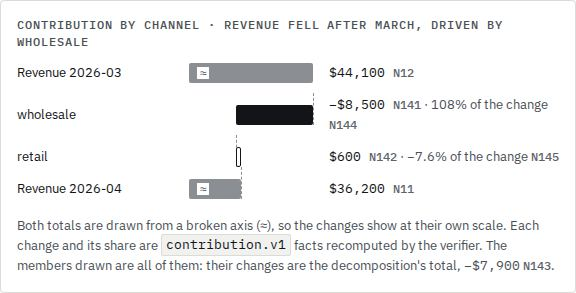
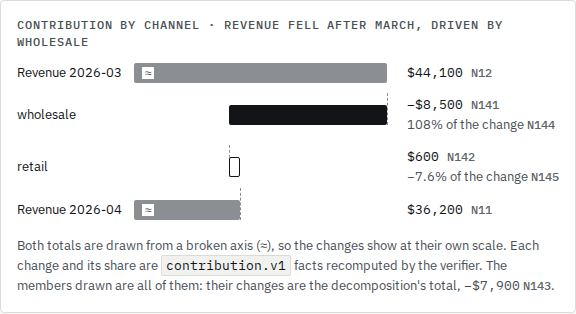
fix(site): the bridge's track takes the free width (shares under their figures), the bridge test checks bar ends, the caption and the phone layout; label rule and capture notes

diff --git a/scripts/site/browser/site.spec.ts b/scripts/site/browser/site.spec.ts
@@ -990,6 +990,10 @@ test("the contribution bridge: one row per total and member, bars on one shared 
     await expect(bridge.locator(".aa-island-label")).toContainText("Contribution by channel");
     await expect(bridge.locator(".aa-bridge-row")).toHaveCount(4);
     await expect(bridge).not.toContainText("Everyone else");
+    // The page's own data (coffee.json) proves every member is drawn: the caption says so with the total's id.
+    await expect(bridge.locator("p.aa-small")).toContainText("The members drawn are all of them");
+    await expect(bridge.locator("p.aa-small")).toContainText("N143");
+    await expect(bridge).not.toContainText("not drawn");
     const geo = await bridge.evaluate((el) => {
       const tracks = [...el.querySelectorAll(".aa-bridge-track")].map((t) => t.getBoundingClientRect());
       const rows = [...el.querySelectorAll(".aa-bridge-row")];
@@ -1000,11 +1004,37 @@ test("the contribution bridge: one row per total and member, bars on one shared 
         if (!link || !above) return 999;
         return Math.min(Math.abs(link.left - above.left), Math.abs(link.left - above.right));
       });
-      return { lefts: tracks.map((t) => Math.round(t.left)), widths: tracks.map((t) => Math.round(t.width)), joins };
+      // The bridge itself: March ends where wholesale starts (its right edge, a fall), wholesale ends where retail starts
+      // (its left edge), retail ends where April does.
+      const bars = rows.map((r) => r.querySelector(".aa-bridge-bar")?.getBoundingClientRect());
+      const ends = [
+        Math.abs((bars[0]?.right ?? 0) - (bars[1]?.right ?? 9)),
+        Math.abs((bars[1]?.left ?? 0) - (bars[2]?.left ?? 9)),
+        Math.abs((bars[2]?.right ?? 0) - (bars[3]?.right ?? 9)),
+      ];
+      return {
+        lefts: tracks.map((t) => Math.round(t.left)),
+        widths: tracks.map((t) => Math.round(t.width)),
+        joins,
+        ends,
+        track: tracks[0]?.width ?? 0,
+      };
     });
     expect(new Set(geo.lefts).size, path).toBe(1);
     expect(new Set(geo.widths).size, path).toBe(1);
     for (const j of geo.joins) expect(j, path).toBeLessThan(2);
+    for (const e of geo.ends) expect(e, path).toBeLessThan(2);
+    // Legible: the track has most of the island, not its minimum.
+    expect(geo.track, path).toBeGreaterThan(200);
+    // On a phone the bars stack under their labels at full width, and the connectors are hidden.
+    await page.setViewportSize({ width: 390, height: 844 });
+    const phone = await bridge.evaluate((el) => ({
+      links: [...el.querySelectorAll(".aa-bridge-link")].filter((l) => l.getClientRects().length > 0).length,
+      tracks: [...el.querySelectorAll(".aa-bridge-track")].map((t) => Math.round(t.getBoundingClientRect().width)),
+      rows: Math.round((el.querySelector(".aa-bridge-rows") as HTMLElement).getBoundingClientRect().width),
+    }));
+    expect(phone.links, path).toBe(0);
+    for (const w of phone.tracks) expect(w, path).toBe(phone.rows);
   }
 });
 

diff --git a/apps/docs/src/components/Decomposition.tsx b/apps/docs/src/components/Decomposition.tsx
@@ -83,12 +83,11 @@ export default function Decomposition() {
               {fig(s.delta)}
               {s.share ? (
                 <span className="aa-bridge-share">
-                  {" "}
-                  · {formatWithCurrency(s.share)} of the change <span className="aa-bridge-id">{s.share.id}</span>
+                  {formatWithCurrency(s.share)} of the change <span className="aa-bridge-id">{s.share.id}</span>
                 </span>
               ) : null}
               {i === steps.length - 1 && others.length ? (
-                <span className="aa-bridge-share"> · also in the total, not drawn: {others.join(", ")}</span>
+                <span className="aa-bridge-share">also in the total, not drawn: {others.join(", ")}</span>
               ) : null}
             </span>
           </li>

diff --git a/apps/docs/scripts/site-screenshots.ts b/apps/docs/scripts/site-screenshots.ts
@@ -93,7 +93,7 @@ try {
         // Also capture-only: the fixed header and the mobile TOC bar would otherwise sit over element and clip shots.
         await page.addStyleTag({
           content:
-            "*, *::before, *::after { transition: none !important; } header.header, mobile-starlight-toc { visibility: hidden !important; }",
+            "*, *::before, *::after { transition: none !important; } header.header, mobile-starlight-toc, starlight-menu-button { visibility: hidden !important; }",
         });
         await page.screenshot({ ...shot, path: join(out, `${slug}-00-top-${w}.jpg`) });
         // Each h2 section in full, from its h2 to the next one (or the end of the article).

diff --git a/apps/docs/src/components/islands.css b/apps/docs/src/components/islands.css
@@ -86,7 +86,9 @@
    one row lines up with the next row's and the connectors join them. */
 .aa-bridge-rows {
   display: grid;
-  grid-template-columns: minmax(7rem, 10rem) minmax(8rem, 1fr) minmax(0, max-content);
+  /* Name and figure at their own width, the track takes the rest (the share sits under its figure, so the figure
+     column stays narrow and the bars stay legible). */
+  grid-template-columns: max-content minmax(10rem, 1fr) max-content;
   gap: var(--aa-space-3);
   margin: 0 0 var(--aa-space-3);
   padding: 0;
@@ -150,6 +152,7 @@
   color: var(--aa-ink-3);
 }
 .aa-bridge-share {
+  display: block;
   font-family: var(--aa-font-sans);
   color: var(--aa-ink-2);
 }

diff --git a/docs/progress/STATE.md b/docs/progress/STATE.md
@@ -43,7 +43,7 @@ Since 2026-10-16 (maintainer's instruction, from PR #15 on): post the spec-revie
 | M13l Site v3 PR 2: results transposed | DONE | no | [#39](https://github.com/gfirik/agentic-analytics/pull/39) | `bun run --filter @agentic-analytics/docs build && bun run site:check:browser` | §3's table turned: metrics as rows (seven, now including cause grade and recommendation relevance, the bars the smoke run misses), runs as columns. It fits 1440 and 1920 with no sideways scroll (it overflowed even at 1920). A run without rates (real public data; a partial or in-progress run) is one cell over all metric rows; sources in a `<details>`. Lighthouse (simulated mobile, 2 runs each): `/` 97/100/100/100 CLS 0, `/learn/` 97/100/100/100 CLS 0.0235 (the docs font swap) |
 | M13l Site v3 PR 3: timed walkthrough, quiet chips | DONE | no | [#40](https://github.com/gfirik/agentic-analytics/pull/40) | `bun run --filter @agentic-analytics/docs build && bun run site:check:browser`; `tsx apps/docs/scripts/site-screenshots.ts --only hero-step` | Maintainer's D2: no scroll-pinning at any size; the walkthrough is timed everywhere (starts in view, Pause/prev/next, holds while the pointer is on a figure or a note, or focus is inside). The sticky section and its 2,250px track are gone (the exhibit section is as tall as its content). Step 1's note is open from the start (the empty "MARGIN · HOVER OR FOCUS" box and the 543px empty block on phones are gone); notes keep their own height (no stretched rows on phones); under 900px the SQL is folded behind "show". Chips: label size, ink-3, a light hairline, a 24px hit box. Also fixes a 5px sideways scroll on the landing page from 1000 to 1180px (the frame's "+" ticks), already on main. Lighthouse mobile (2 runs each): `/` 97/100/100/100 CLS 0, `/learn/` 97–100/100/100/100 CLS 0.0235 (the docs font swap); desktop: `/` and `/learn/` 100/100/100/100 CLS 0 |
 | M13l Site v3 PR 4: section heads, one code size, quiet scroll boxes | DONE | no | [#41](https://github.com/gfirik/agentic-analytics/pull/41) | `bun run --filter @agentic-analytics/docs build && bun run site:check:browser` | Every landing section opens with label, h2 (one line from 1100px) and a one-sentence lead; §3's caveats moved under its table. One code size, `--aa-text-code` (0.8125rem), for every block and inline code on the landing page and in the docs (Expressive Code was 0.875rem, Quickstart 0.75rem, the exhibit's notes 0.6875rem); Quickstart commands break at a flag or a `\`, never mid-word; the clone URL wraps after `github.com/` with its second line under its first. The status strip and the install line hide their scrollbar and fade at the edge with more to read. Lighthouse mobile: `/` 97/100/100/100 CLS 0, `/learn/` 97/100/100/100 CLS 0.0235; desktop: both 100/100/100/100 CLS 0 |
-| M13l Site v3 PR 5: Learn visuals, type floors, brief folded in | IN_REVIEW | no | [#42](https://github.com/gfirik/agentic-analytics/pull/42) | `bun run --filter @agentic-analytics/docs build && bun run site:check:browser` | The contribution waterfall is a true bridge (connectors, a broken axis, titled by its dimension, no remainder the page subtracted). Learn stage pages list h2s only in the TOC, and the TOC's cap is the screen below the header (no inner scrollbar at 1000px tall). Reading text in every figure at least `--aa-text-note`, nothing under `--aa-text-label` (StageFlow notes, CitationDemo, VerifierDiff reasons, the exhibit's foot and caption, grades, sidenote numbers), checked on every sitemap page. §2's examples share rows and show the report's first sentence before and after rendering. The brief is folded into DESIGN.md §11 and deleted. Lighthouse mobile: `/` 97/100/100/100 CLS 0, `/learn/` 97–98/100/100/100 CLS 0.0235; desktop: both 100/100/100/100 CLS 0 |
+| M13l Site v3 PR 5: Learn visuals, type floors, brief folded in | DONE | no | [#42](https://github.com/gfirik/agentic-analytics/pull/42) | `bun run --filter @agentic-analytics/docs build && bun run site:check:browser` | The contribution waterfall is a true bridge (connectors, a broken axis, titled by its dimension, no remainder the page subtracted). Learn stage pages list h2s only in the TOC, and the TOC's cap is the screen below the header (no inner scrollbar at 1000px tall). Reading text in every figure at least `--aa-text-note`, nothing under `--aa-text-label` (StageFlow notes, CitationDemo, VerifierDiff reasons, the exhibit's foot and caption, grades, sidenote numbers), checked on every sitemap page. §2's examples share rows and show the report's first sentence before and after rendering. The brief is folded into DESIGN.md §11 and deleted. Lighthouse mobile: `/` 97/100/100/100 CLS 0, `/learn/` 97–98/100/100/100 CLS 0.0235; desktop: both 100/100/100/100 CLS 0 |
 
 Order: M0 → M1 → M2 → M3 → M4 → M5 → M6 → M7 → M8 → M9 → M10 → M11 → M12. In autopilot it runs sequentially. Parallel worktrees are an interactive option only.
 
@@ -316,7 +316,7 @@ These are checks that need something this machine doesn't have yet, such as a re
 - [M13i] The sticky TOC shares the margin column with sidenotes and full-width figures: it has the page background and a height cap, notes scroll beneath it, and while a full-width figure passes under it the TOC steps aside (hidden) so the figure is never covered, and likewise for a sidenote beneath it (review round 1); without JS the TOC stays on top — apps/docs/src/components/starlight/TwoColumnContent.astro
 - [M13i] The landing page's fact ledger is collapsed until one of its rows is the link target (`:has(:target)`), so the chips still work without JS while the hero stays one screen; the margin note links to it
 - [M13l] Site v3 PR 5, also: §2's "model writes" sentence is rebuilt from the exhibit's line parts (`placeholders()` in exhibit.ts) rather than a raw claim text added to landing-data.ts as the plan said; a unit test checks it is the start of the report claim's own text. Only the Learn stage pages list h2s only in the TOC (the plan said Learn pages): they are the long ones with h3s; the overview, tutorials and glossary keep their h3s. The bridge names members beyond its drivers by fact id instead of counting them, and says it shows every member only when the total fact proves it
-- [M13l] Site v3 PR 5: the type-floor test treats short mono text (32 characters or fewer: fact ids, "bar ≥ 80%", a grade) as a label, so it may sit at `--aa-text-label` (a figure's numbers, `.aa-fig`, never count as labels; DESIGN.md §4 says so); mono prose (JSON in a StageFlow note, a VerifierDiff reason) is reading text and moves to the note or code size. The bridge reads the members from its total fact's inputs and names any beyond the drivers by fact id, rather than drawing an "everyone else" bar from a subtraction (with the coffee-roaster run every member is a driver; a unit test checks the total's inputs are exactly the drivers) — apps/docs/src/components/Decomposition.tsx, scripts/site/browser/site.spec.ts
+- [M13l] Site v3 PR 5: the type-floor test treats short mono text (32 characters or fewer: fact ids, "bar ≥ 80%", a grade) as a label, so it may sit at `--aa-text-label` (a figure's numbers, `.aa-fig`, never count as labels; DESIGN.md §4 says so); mono prose (JSON in a StageFlow note, a VerifierDiff reason) is reading text and moves to the note or code size. The bridge reads the members from its total fact's inputs and names any beyond the drivers by fact id, rather than drawing an "everyone else" bar from a subtraction (with the coffee-roaster data every member is a driver: a unit test checks it on the recorded run, and the browser test checks the island's own caption says so with the total's id) — apps/docs/src/components/Decomposition.tsx, scripts/site/browser/site.spec.ts
 - [M13l] Known gap (not site v3's findings): on /use-it/cli/ at 390 the command reference table splits flags at their hyphen (`[--` / `small-model]`); it was like this on main. The Quickstart and door commands no longer split — apps/docs/src/content/docs/use-it/cli.md
 - [M13l] Site v3 PR 4: the scroll boxes hide their scrollbar in CSS from the start (a scrollbar that a script removed would change the box's height and move the page), and only the fade needs the script, so without JS there is no fade (the plan said the edge would always fade without JS; a page can't know it overflows without measuring). Section-head spacing is one token (`--aa-space-4`) between label, h2 and lead, not the two the plan named, and the head cell keeps its `--aa-space-7` bottom padding (the plan said `--aa-space-8`; 8 left the lead floating far from its section's content). Code inside a heading keeps the heading's scale (0.875em): at the one code size, `contribution.v1` in a 28px h2 shrank to 13px. The h2 measure is 48ch, not 30ch: at 30ch the longest head ("Built so you don't have to take its word for it.") still wrapped at 1440. At 1440 the status strip is still about 17px wider than the screen (it was on main too): its end fades — apps/docs/src/styles/site.css, components.css
 - [M13l] Site v3 PR 3, two departures from the plan's wording: under 900px the notes still share one grid cell (the plan said the grid stack goes); each note now sits at the top of it at its own height, which is what removes the stretching, and the shared cell is what keeps the page still without measuring. The fold reads "SQL, run in DuckDB · show" ("· hide" when open) rather than "Show SQL": it is the note's existing caption made into the toggle, so a phone shows one line where the SQL would be — apps/docs/src/components/site/ExhibitNote.astro

diff --git a/apps/docs/DESIGN.md b/apps/docs/DESIGN.md
@@ -92,7 +92,7 @@ All three faces are self-hosted through `@fontsource` and imported once, in `src
 The scale (rem, root 16px; mobile values apply under 640px):
 
 - **Larger than h2:** nothing renders larger than `--aa-text-h2` except the hero statement and a page's own h1 (the docs h1 is 2.5rem, 2rem on mobile).
-- **Reading text in figures:** no reading text inside a figure is smaller than `--aa-text-note`. A figure is any diagram, island, ledger or framed panel, with everything inside its frame. Labels are not reading text: mono uppercase labels, fact chips, and short mono tags and ids (a fact id outside a chip, "bar ≥ 80%", "recomputed", a grade) keep `--aa-text-label`. A figure's numbers (`.aa-fig`) are reading text. Nothing on the site is smaller than `--aa-text-label`.
+- **Reading text in figures:** no reading text inside a figure is smaller than `--aa-text-note`. A figure is any diagram, island, ledger or framed panel, with everything inside its frame. Labels are not reading text: mono uppercase labels (and what sits in their line, such as a run's jobs count in a results-table head), fact chips, and short mono tags and ids (a fact id outside a chip, "bar ≥ 80%", "recomputed", a grade) keep `--aa-text-label`. A figure's numbers (`.aa-fig`) are reading text. Nothing on the site is smaller than `--aa-text-label`.
 - **Code:** one size everywhere, `--aa-text-code` (0.8125rem): the hero's install line, §2, Quickstart, the exhibit's notes, StageFlow, the fact ledgers, Transcript, Expressive Code blocks, Mermaid sources, page leads and inline code in prose. The one exception: code inside a heading keeps the heading's scale (0.875em of it). Quickstart commands are broken at a flag or a `\` and fit their cell. The clone URL is longer than a Quickstart column at every width: it wraps only after `github.com/` (a `<wbr>`), and its second line starts under its first (an inline block), so it reads as one argument. Nothing splits mid-word.
 
 | Token | Size / line height | Face | Use |
@@ -243,7 +243,7 @@ The scale (rem, root 16px; mobile values apply under 640px):
   - under 50rem the columns stack, with ↓ between them;
   - step descriptions and every other reading text in it at `--aa-text-note`; column heads at `--aa-text-label`.
 - **Contribution bridge** (`Decomposition.tsx`; Learn's analysis page, Your first report, Finding drivers):
-  - start total → each member's change → end total, one row each (label · bar · figure with its fact id); the rows share one set of columns (CSS subgrid), so every bar is on the same scale, and dashed `rule-strong` connectors run from one bar's end to the next one's start (hidden under 40rem, where the bars stack under their labels);
+  - start total → each member's change → end total, one row each (label · bar · figure with its fact id); the rows share one set of columns (CSS subgrid), so every bar is on the same scale, and dashed `rule-strong` connectors run from one bar's end to the next one's start (hidden under 40rem, where the bars stack under their labels); the name and the figure take their own width and the track the rest, with each share on its own line under its figure;
   - titled by the decomposition's own dimension ("Contribution by channel");
   - the totals are drawn from a broken axis, marked ≈ on the bar with no numeric tick, so the changes show at the scale of the change; the bar geometry is layout only, and every figure shown is a fact's stored value;
   - negative changes solid ink, positive ones outlined (§3);
